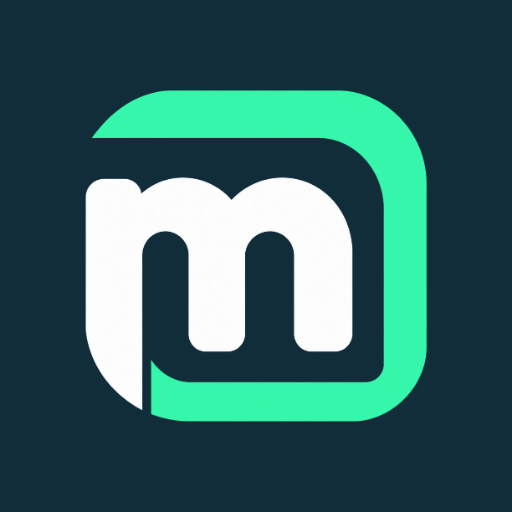
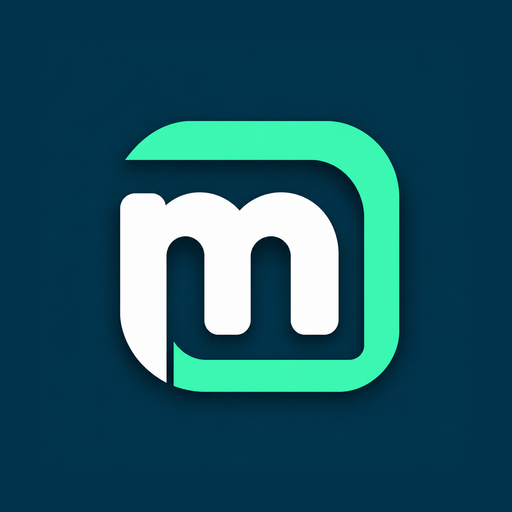
fix(pwa): restaurar icono MiniSistema fondo petroleo pleno (#01344c) sin bordes blancos en todos los manifests y rutas

Changed region(s): [[0.1562, 0.1562, 0.8438, 0.8438], [0.5, 0.4375, 0.5625, 0.4688]]

diff --git a/src/lib/erp/render-erp-app.ts b/src/lib/erp/render-erp-app.ts
@@ -200,11 +200,26 @@ export function renderErpHtmlResponse(params: {
       ? tenant.deployment.actividadNegocio
       : "comercial";
 
+  const enabledCajaNums = (Array.isArray(tenant.enabled_modules) ? tenant.enabled_modules : [])
+    .map((m) => {
+      const match = /^facturacion:caja(\d+)$/i.exec(String(m || "").trim());
+      return match ? Number(match[1]) : 0;
+    })
+    .filter((n) => n > 0);
+  const resolvedCajasCount = tenant.is_base
+    ? Math.max(3, enabledCajaNums.length > 0 ? Math.max(...enabledCajaNums) : 3)
+    : enabledCajaNums.length > 0
+      ? Math.max(...enabledCajaNums)
+      : Number(tenant.subscription?.cajasCount ?? 0) > 0
+        ? Math.max(1, Math.min(20, Math.round(Number(tenant.subscription?.cajasCount))))
+        : 3;
+
   const bootPayload = {
     slug: tenant.slug,
     isBase: tenant.is_base,
     optionType: tenant.option_type,
     actividadNegocio,
+    cajasCount: resolvedCajasCount,
     businessName: tenant.business_name,
     fantasyName: tenant.fantasy_name,
     status: tenant.status,
@@ -300,13 +315,21 @@ export function renderErpHtmlResponse(params: {
     /<meta\s+name="theme-color"\s+content="[^"]*"\s*\/?>/i,
     `<meta name="theme-color" content="${primaryHex}">`
   );
+  const withAssetVer = (url: string) =>
+    `${url}${url.includes("?") ? "&" : "?"}v=${assetVer}`;
+  const faviconHref = tenant.is_base
+    ? `/sistema/assets/img/minisistema/favicon-64.png?v=4`
+    : withAssetVer(brand.logoSymbolUrl);
+  const icon192Href = tenant.is_base
+    ? `/sistema/assets/img/minisistema/icon-192.png?v=4`
+    : withAssetVer(brand.logoSymbolUrl);
   html = html.replace(
     /<link\s+rel="icon"[^>]*>/gi,
-    `<link rel="icon" type="image/png" sizes="64x64" href="${brand.logoSymbolUrl}?v=${assetVer}">`
+    `<link rel="icon" type="image/png" sizes="64x64" href="${faviconHref}">\n  <link rel="icon" type="image/png" sizes="192x192" href="${icon192Href}">`
   );
   const appleTouchIconHref = tenant.is_base
-    ? `/sistema/assets/img/minisistema/apple-touch-icon.png?v=${assetVer}`
-    : `${brand.logoSymbolUrl}?v=${assetVer}`;
+    ? `/sistema/assets/img/minisistema/apple-touch-icon.png?v=4`
+    : withAssetVer(brand.logoSymbolUrl);
   html = html.replace(
     /<link\s+rel="apple-touch-icon"[^>]*>/gi,
     `<link rel="apple-touch-icon" sizes="180x180" href="${appleTouchIconHref}">`

diff --git a/src/app/sistema/manifest.webmanifest/route.ts b/src/app/sistema/manifest.webmanifest/route.ts
@@ -113,31 +113,25 @@ export async function GET(req: NextRequest) {
   } else if (tenant.is_base) {
     icons = [
       {
-        src: "/sistema/assets/img/minisistema/favicon-64.png?v=3",
-        sizes: "64x64",
-        type: "image/png",
-        purpose: "any",
-      },
-      {
-        src: "/sistema/assets/img/minisistema/icon-192.png?v=3",
+        src: "/sistema/assets/img/minisistema/icon-192.png?v=4",
         sizes: "192x192",
         type: "image/png",
         purpose: "any",
       },
       {
-        src: "/sistema/assets/img/minisistema/icon-512.png?v=3",
+        src: "/sistema/assets/img/minisistema/icon-512.png?v=4",
         sizes: "512x512",
         type: "image/png",
         purpose: "any",
       },
       {
-        src: "/sistema/assets/img/minisistema/icon-maskable-192.png?v=3",
+        src: "/sistema/assets/img/minisistema/icon-maskable-192.png?v=4",
         sizes: "192x192",
         type: "image/png",
         purpose: "maskable",
       },
       {
-        src: "/sistema/assets/img/minisistema/icon-maskable-512.png?v=3",
+        src: "/sistema/assets/img/minisistema/icon-maskable-512.png?v=4",
         sizes: "512x512",
         type: "image/png",
         purpose: "maskable",
@@ -175,8 +169,18 @@ export async function GET(req: NextRequest) {
     display: "standalone",
     display_override: ["standalone", "minimal-ui"],
     orientation: "any",
-    background_color: tenant.slug === "casanueva" ? "#f8f9fa" : brand.primaryHex,
-    theme_color: tenant.slug === "casanueva" ? "#202020" : brand.primaryHex,
+    background_color:
+      tenant.slug === "casanueva"
+        ? "#f8f9fa"
+        : tenant.is_base
+          ? "#01344c"
+          : brand.primaryHex,
+    theme_color:
+      tenant.slug === "casanueva"
+        ? "#202020"
+        : tenant.is_base
+          ? "#01344c"
+          : brand.primaryHex,
     lang: "es-AR",
     dir: "ltr",
     categories: ["business", "finance", "productivity"],

diff --git a/src/app/asistencia/manifest.webmanifest/route.ts b/src/app/asistencia/manifest.webmanifest/route.ts
@@ -34,31 +34,31 @@ export async function GET(req: NextRequest) {
     scope: "/",
     display: "standalone",
     orientation: "portrait",
-    background_color: brand.primaryHex,
-    theme_color: brand.primaryHex,
+    background_color: tenant.is_base ? "#01344c" : brand.primaryHex,
+    theme_color: tenant.is_base ? "#01344c" : brand.primaryHex,
     lang: "es-AR",
     categories: ["business", "productivity"],
     icons: [
       {
-        src: "/sistema/assets/img/minisistema/icon-192.png?v=3",
+        src: "/sistema/assets/img/minisistema/icon-192.png?v=4",
         sizes: "192x192",
         type: "image/png",
         purpose: "any",
       },
       {
-        src: "/sistema/assets/img/minisistema/icon-512.png?v=3",
+        src: "/sistema/assets/img/minisistema/icon-512.png?v=4",
         sizes: "512x512",
         type: "image/png",
         purpose: "any",
       },
       {
-        src: "/sistema/assets/img/minisistema/icon-maskable-192.png?v=3",
+        src: "/sistema/assets/img/minisistema/icon-maskable-192.png?v=4",
         sizes: "192x192",
         type: "image/png",
         purpose: "maskable",
       },
       {
-        src: "/sistema/assets/img/minisistema/icon-maskable-512.png?v=3",
+        src: "/sistema/assets/img/minisistema/icon-maskable-512.png?v=4",
         sizes: "512x512",
         type: "image/png",
         purpose: "maskable",

diff --git a/src/app/layout.tsx b/src/app/layout.tsx
@@ -19,13 +19,14 @@ const plusJakarta = Plus_Jakarta_Sans({
 });
 
 export const viewport: Viewport = {
-  themeColor: "#112D3A",
+  themeColor: "#01344c",
   width: "device-width",
   initialScale: 1,
 };
 
 export const metadata: Metadata = {
   metadataBase: new URL("https://www.minisistema.com.ar"),
+  manifest: "/sistema/manifest.webmanifest",
   title: {
     default: "MiniSistema | Sistemas a Medida — Tu negocio es único, tu sistema también",
     template: "%s | MiniSistema — Sistemas a Medida",
